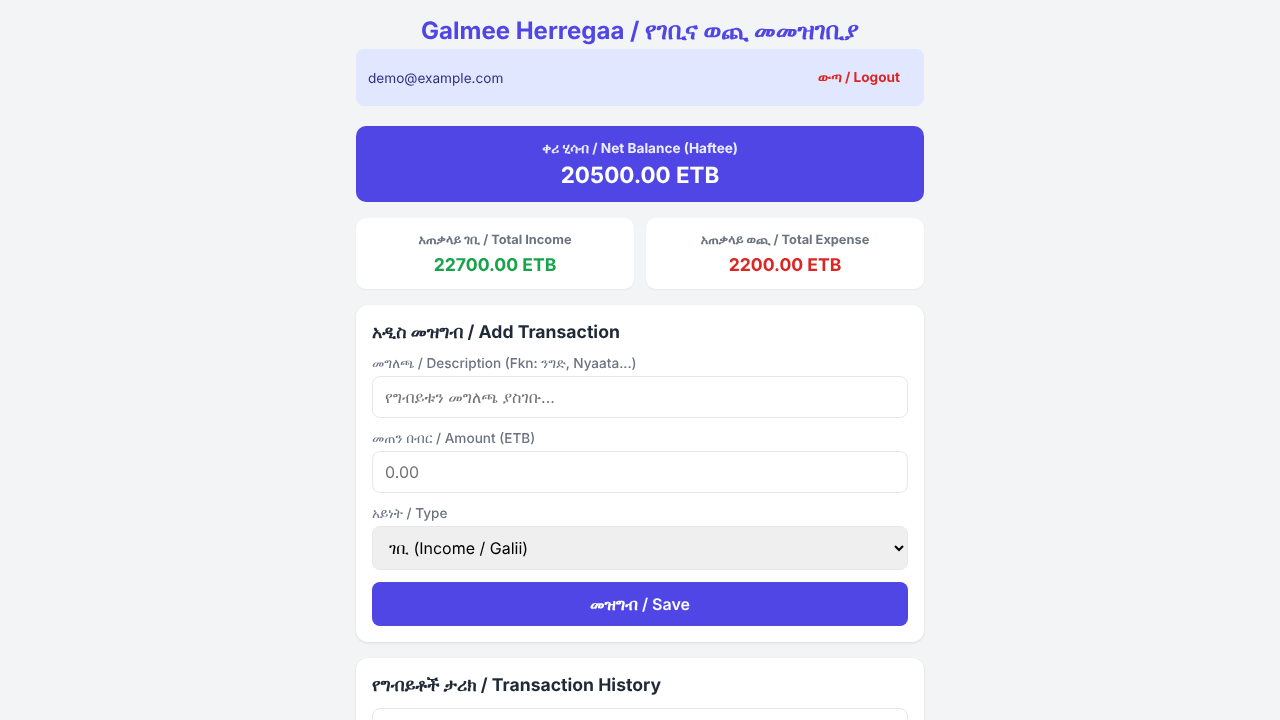
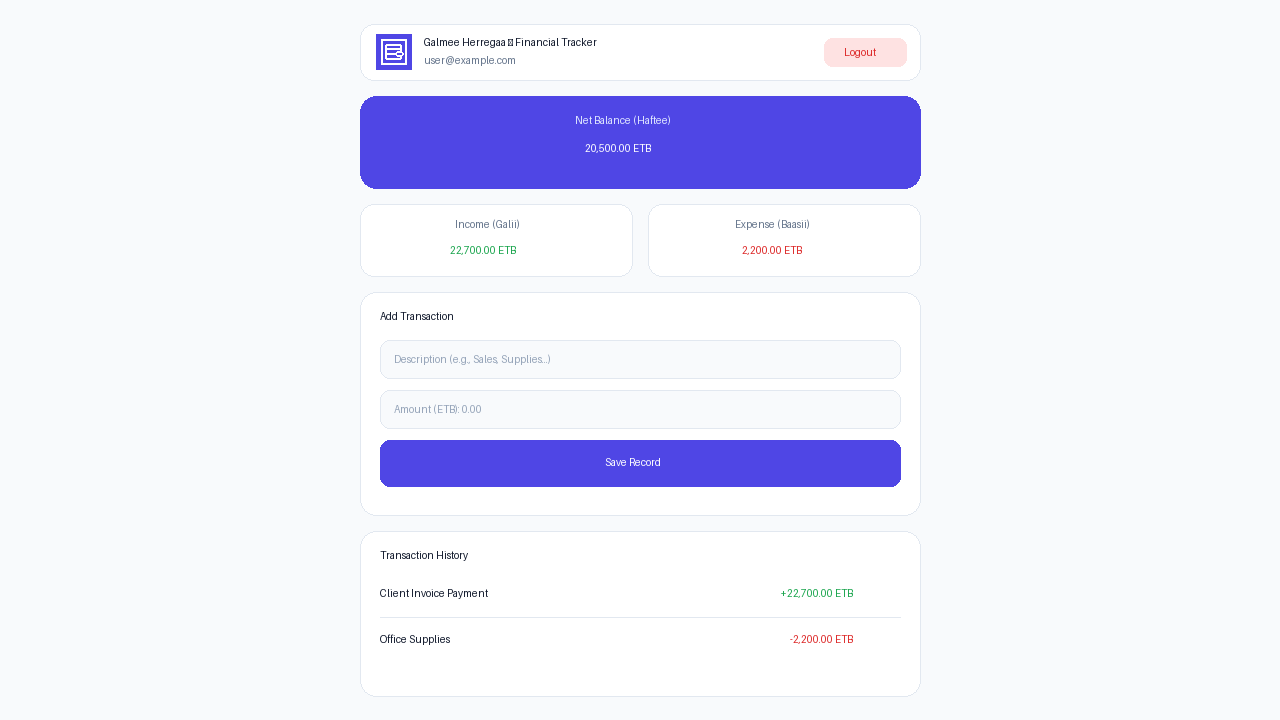
Add files via upload

Changed region(s): [[0.2812, 0.4278, 0.7188, 0.9167], [0.2812, 0.0306, 0.7188, 0.3972], [0.2812, 0.9472, 0.5312, 0.9778]]

diff --git a/sw.js b/sw.js
@@ -1,11 +1,12 @@
-const CACHE_NAME = 'galmee-herregaa-v1';
+const CACHE_NAME = 'galmee-herregaa-v2';
 const ASSETS = [
   './',
   './index.html',
   './manifest.json',
   './icon-192.png',
   './icon-512.png',
-  './screenshot-mobile.png'
+  './screenshot-mobile.png',
+  './screenshot-wide.png'
 ];
 
 self.addEventListener('install', (event) => {
